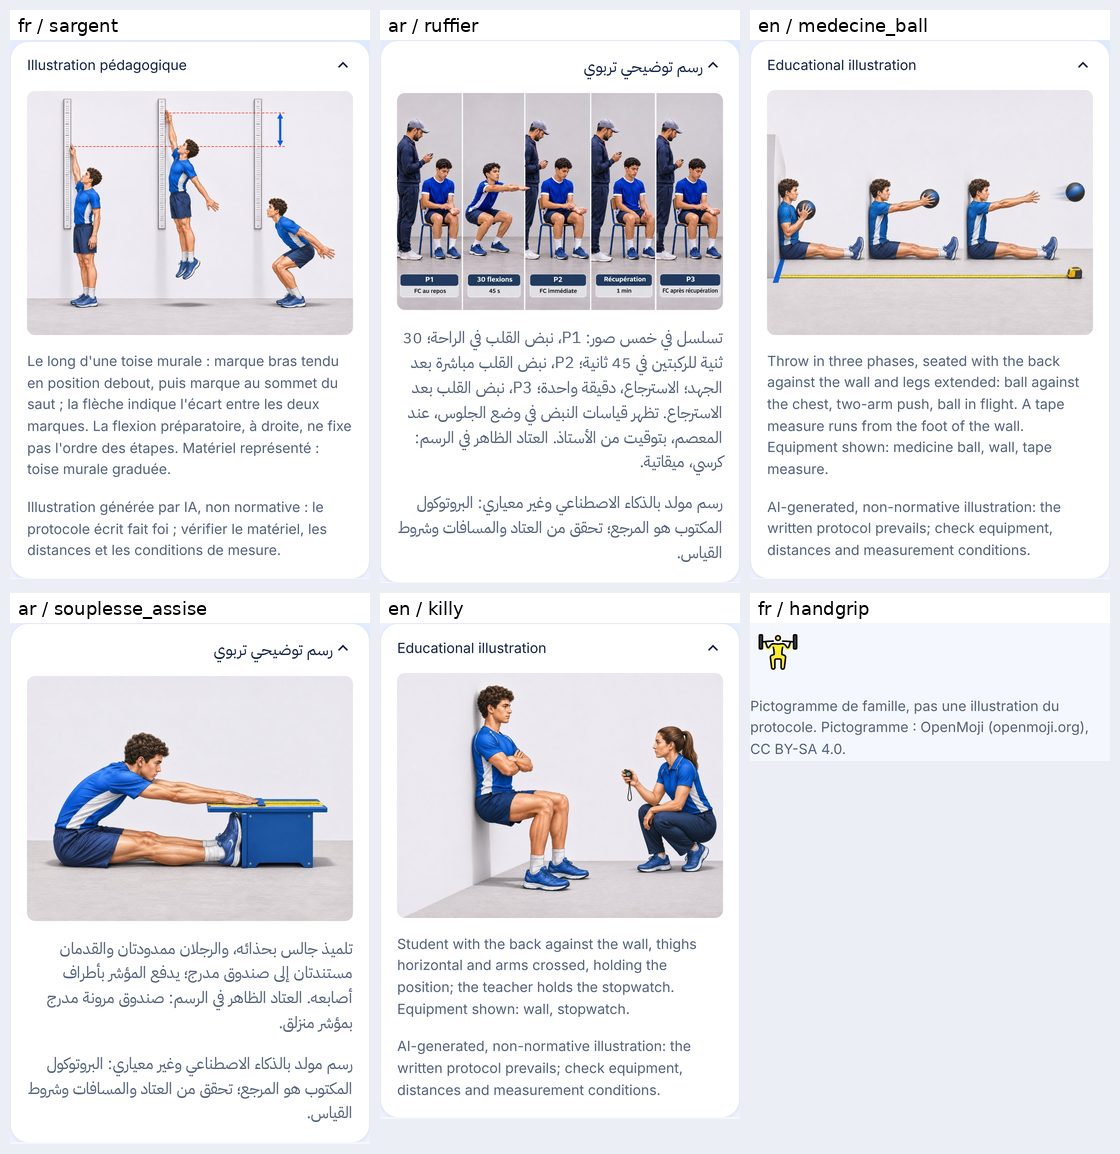
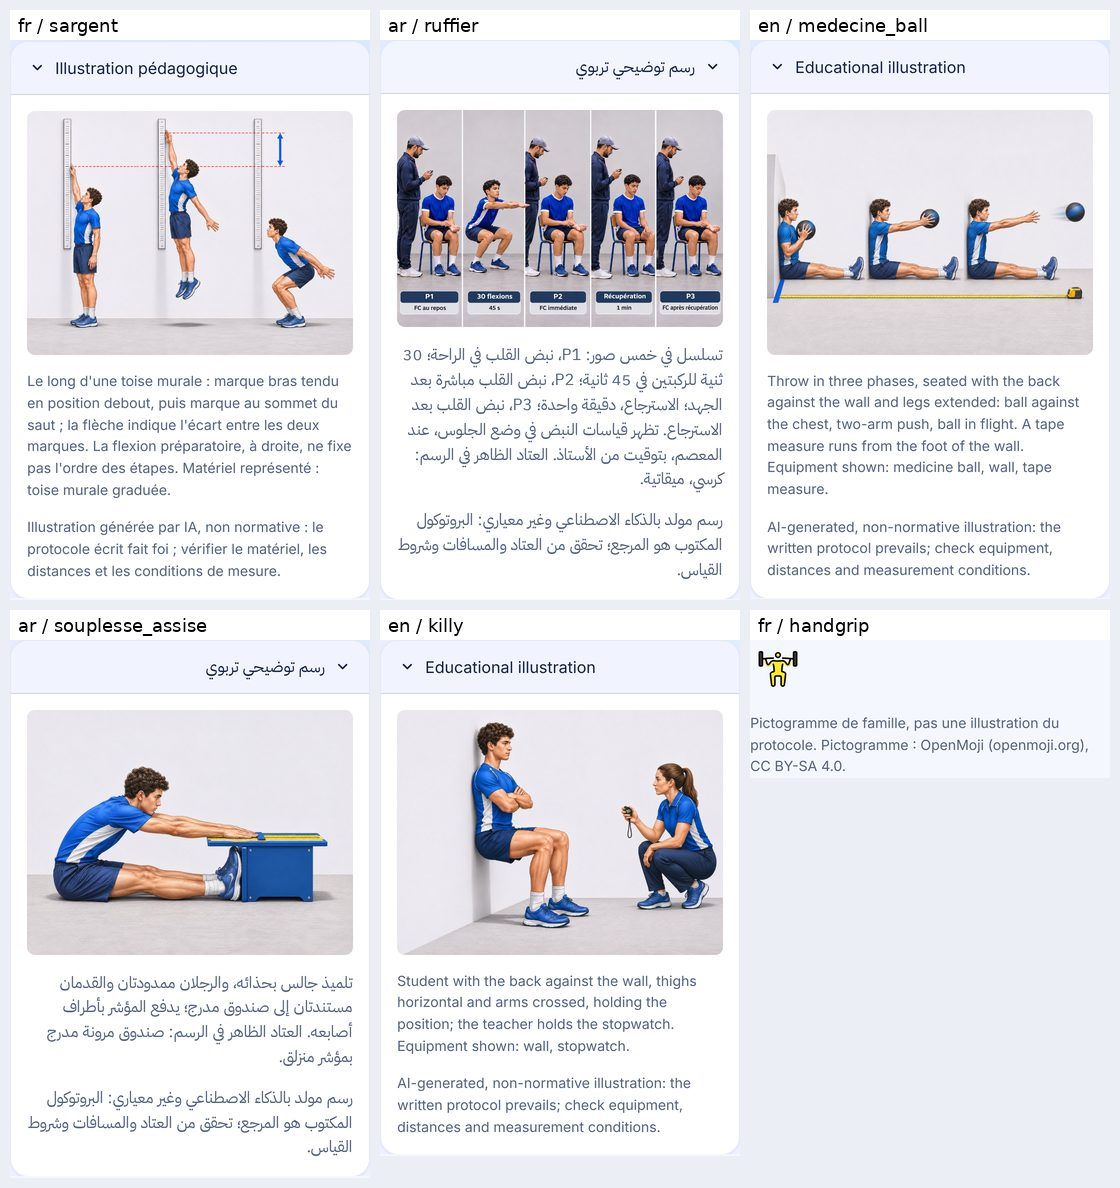
Banque visuelle : recette mobile et suite de tests refaites sous Streamlit 1.52.0 (version fixée)
Résultats identiques à la première passe, qui avait tourné sous Streamlit 1.47.1 faute d'environnement local
aligné. Documentation seulement.

diff --git a/docs/validation/banque-visuelle-2026-11-25/README.md b/docs/validation/banque-visuelle-2026-11-25/README.md
@@ -72,12 +72,15 @@ retouche locale, limitée finalement à six images (section 7).
   chronométrage du sprint dans les trois langues ;
 - page du Laboratoire en français, arabe et anglais ; une image manquante ne bloque pas la page.
 
-Suite complète en local (Python 3.12.3, dépendances exactes) : 253 tests réussis après la retouche et la légende du sprint (250 avant). `compileall` et
+Suite complète en local sous Python 3.12.3 et Streamlit 1.52.0, version fixée par `requirements.txt` : 253 tests
+réussis après la retouche et la légende du sprint. Les premières exécutions locales avaient tourné sous Streamlit
+1.47.1, faute d'environnement local aligné après la PR #64 ; la CI, elle, installe les versions fixées. `compileall` et
 `scripts/mutation_check.py` réussis. Les workflows de la PR (Python 3.12 et 3.14, smoke, validation R) font foi.
 
 ## 5. Recette mobile
 
-iPhone 13 émulé (Chromium sans interface, Playwright), application servie localement depuis la branche. Script :
+iPhone 13 émulé (Chromium sans interface, Playwright), application servie localement depuis la branche, sous
+Streamlit 1.52.0. Une première passe sous Streamlit 1.47.1 avait donné des résultats identiques. Script :
 [scripts/recette_banque_visuelle.py](scripts/recette_banque_visuelle.py). Résultats bruts :
 [resultats/recette_iphone.json](resultats/recette_iphone.json). Planche :
 [captures/banque_visuelle_iphone.jpg](captures/banque_visuelle_iphone.jpg).
